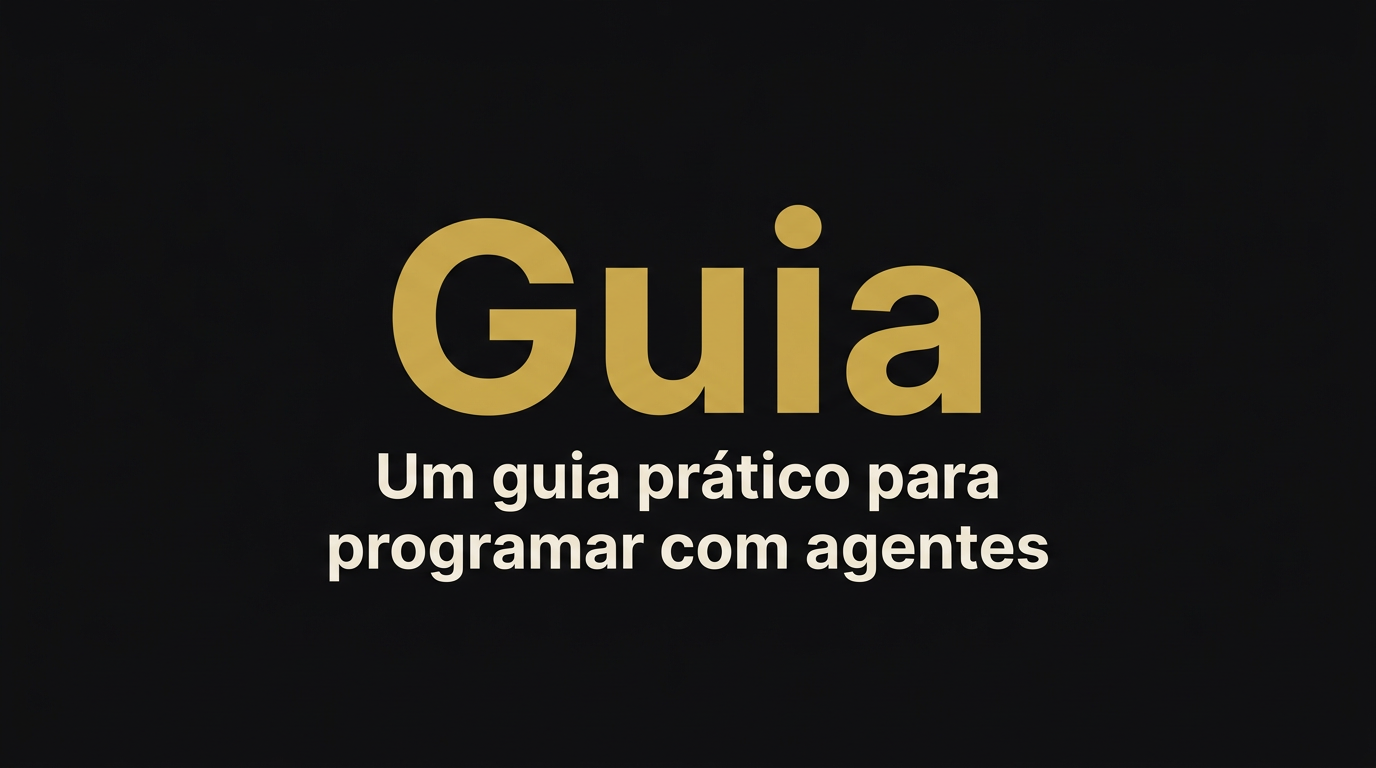
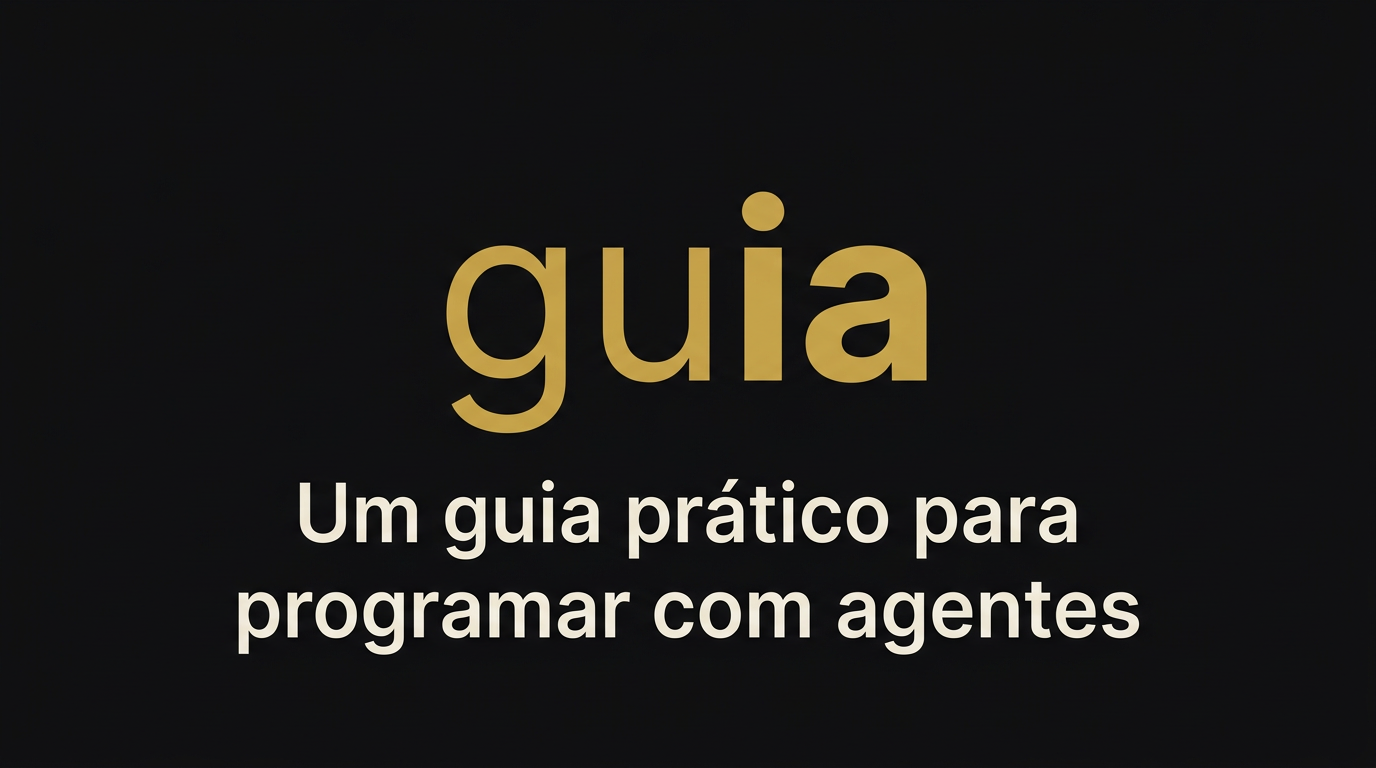
feat: pos release 0.7

Changed region(s): [[0.1562, 0.5938, 0.8438, 0.875], [0.2812, 0.25, 0.7188, 0.5625]]

diff --git a/index.html b/index.html
@@ -5,23 +5,23 @@
     <meta name="viewport" content="width=device-width, initial-scale=1.0" />
     <meta
       name="description"
-      content="Um guia pratico para desenvolvimento com agentes de codigo. Aprenda a usar Cursor, Claude Code, Codex e outras ferramentas para construir software com IA."
+      content="Um guia prático para desenvolvimento com agentes de código. Aprenda a usar Cursor, Claude Code, Codex e outras ferramentas para construir software com IA."
     />
-    <meta property="og:title" content="Guia prático para programar com agentes" />
+    <meta property="og:title" content="guia prático para programar com agentes" />
     <meta
       property="og:description"
       content="Um guia prático para programar com agentes. Aprenda a usar Cursor, Claude Code, Codex e outras ferramentas com IA."
     />
     <meta property="og:type" content="website" />
     <meta property="og:url" content="https://baltazarparra.github.io/guia/" />
-    <meta property="og:image" content="https://baltazarparra.github.io/guia/og-image.png?v=2" />
+    <meta property="og:image" content="https://baltazarparra.github.io/guia/og-image.png?v=3" />
     <meta name="twitter:card" content="summary_large_image" />
-    <meta name="twitter:title" content="Guia prático para programar com agentes" />
+    <meta name="twitter:title" content="guia prático para programar com agentes" />
     <meta
       name="twitter:description"
       content="Um guia prático para programar com agentes. Aprenda a usar Cursor, Claude Code, Codex e outras ferramentas com IA."
     />
-    <meta name="twitter:image" content="https://baltazarparra.github.io/guia/og-image.png?v=2" />
+    <meta name="twitter:image" content="https://baltazarparra.github.io/guia/og-image.png?v=3" />
     <link rel="canonical" href="https://baltazarparra.github.io/guia/" />
     <link rel="help" type="text/plain" href="/guia/llms.txt" />
     <link rel="icon" type="image/svg+xml" href="/guia/favicon.svg" />
@@ -31,7 +31,7 @@
       href="https://fonts.googleapis.com/css2?family=Inter:wght@400;500;600;700&display=swap"
       rel="stylesheet"
     />
-    <title>Um guia pratico para desenvolvimento com agentes de codigo</title>
+    <title>Um guia prático para desenvolvimento com agentes de código</title>
   </head>
   <body style="background-color: #0c0c0e">
     <div id="root"></div>

diff --git a/src/components/ui/BrandText.jsx b/src/components/ui/BrandText.jsx
@@ -1,0 +1,21 @@
+/**
+ * Renders "guia" with "ia" in bold for brand consistency.
+ * Accepts strings like "Guia prático" or "guia" and outputs gu + <strong>ia</strong> + rest.
+ *
+ * @param {{ children: string, className?: string }} props
+ */
+export default function BrandText({ children, className = '' }) {
+  const text = typeof children === 'string' ? children : ''
+  const match = text.match(/^([Gg]u)(ia)(.*)$/)
+  if (match) {
+    const [, prefix, suffix, restText] = match
+    return (
+      <span className={className}>
+        {prefix}
+        <strong>{suffix}</strong>
+        {restText}
+      </span>
+    )
+  }
+  return <span className={className}>{text}</span>
+}

diff --git a/src/components/sections/HeroSection.jsx b/src/components/sections/HeroSection.jsx
@@ -1,6 +1,7 @@
 import { useRef, useState, useCallback } from 'react'
 import { useLanguage } from '../../hooks/useLanguage'
 import useSectionReveal from '../../hooks/useSectionReveal'
+import BrandText from '../ui/BrandText'
 
 export default function HeroSection() {
   const { t } = useLanguage()
@@ -22,7 +23,7 @@ export default function HeroSection() {
     >
       <div ref={revealRef} className="mx-auto max-w-3xl">
         <h1 className="text-accent text-4xl font-bold tracking-tight md:text-6xl">
-          {t.hero.title}
+          <BrandText>{t.hero.title}</BrandText>
         </h1>
         <p className="text-foreground/70 mt-4 text-xl md:text-2xl">{t.hero.subtitle}</p>
 

diff --git a/src/components/__tests__/smoke.test.jsx b/src/components/__tests__/smoke.test.jsx
@@ -17,7 +17,8 @@ vi.mock('../../hooks/useSectionReveal', () => ({
 describe('smoke tests', () => {
   it('App renders without crashing', () => {
     render(<App />)
-    expect(screen.getByText('Guia prático')).toBeInTheDocument()
+    const h1 = screen.getByRole('heading', { level: 1 })
+    expect(h1).toHaveTextContent('Guia prático')
   })
 
   it('renders all 9 section IDs', () => {

diff --git a/src/content/en.js b/src/content/en.js
@@ -9,7 +9,7 @@ export default {
   },
 
   hero: {
-    title: 'Practical guide',
+    title: 'guia — practical guide',
     subtitle: 'to coding with agents.',
     tabLabel: 'prompt to get started',
     prompt:

diff --git a/README.md b/README.md
@@ -1,8 +1,8 @@
-# Guia
+# gu**ia**
 
 A restrained, bilingual landing page that explains how to start building software with AI coding agents.
 
-Guia is not a tool or a framework. It is a single long-form scroll experience that walks the reader through a structured agentic development workflow — from choosing a stack to writing a PRD to executing through pre-implementation plans.
+gu**ia** is not a tool or a framework. It is a single long-form scroll experience that walks the reader through a structured agentic development workflow — from choosing a stack to writing a PRD to executing through pre-implementation plans.
 
 Built with Vite, React, Tailwind CSS, React Three Fiber, and GSAP. Deployed as a static site on GitHub Pages.
 
@@ -12,7 +12,7 @@ Built with Vite, React, Tailwind CSS, React Three Fiber, and GSAP. Deployed as a
 
 Most people starting with AI coding agents jump straight into prompting and hope for the best. The result is often fast chaos instead of fast delivery.
 
-Guia presents a simple, practical workflow that helps beginners build with more structure. It covers stack decisions, planning documents, execution models, and reusable templates — all explained through a calm, editorial scroll experience with a 3D diamond as the central visual metaphor.
+gu**ia** presents a simple, practical workflow that helps beginners build with more structure. It covers stack decisions, planning documents, execution models, and reusable templates — all explained through a calm, editorial scroll experience with a 3D diamond as the central visual metaphor.
 
 ## Stack
 
@@ -31,7 +31,7 @@ Guia presents a simple, practical workflow that helps beginners build with more 
 | Use case                    | What to read                                                                                                                                                                         |
 | --------------------------- | ------------------------------------------------------------------------------------------------------------------------------------------------------------------------------------ |
 | **Bootstrap a new project** | [llms.txt](https://baltazarparra.github.io/guia/llms.txt) — paste this URL into your agent. It will interview the user and create PLAN.md, IMPLEMENTATION-ROADMAP.md, and AGENTS.md. |
-| **Contribute to Guia**      | [AGENTS.md](AGENTS.md) — project rules, constraints, and validation workflow.                                                                                                        |
+| **Contribute to gu**ia\*\*  | [AGENTS.md](AGENTS.md) — project rules, constraints, and validation workflow.                                                                                                        |
 
 ## Local development
 

diff --git a/PLAN.md b/PLAN.md
@@ -1,8 +1,8 @@
-# PLAN.md — Guia Landing Page
+# PLAN.md — gu**ia** Landing Page
 
 ## 1. Project Overview
 
-**Project name:** Guia  
+**Project name:** gu**ia**  
 **Type:** Experimental single-page landing page  
 **Primary goal:** Educate people who never used code agents and explain a simple agentic development flow  
 **Secondary goal:** Offer reusable templates and a clean mental model for getting started  
@@ -10,7 +10,7 @@
 **Languages:** PT-BR and EN  
 **Deployment:** GitHub Pages
 
-Guia should feel like a creative editorial product site. The experience should be elegant, minimal, calm, and highly intentional. The visual inspiration is a mix of Linear-like product clarity, Untold-like storytelling, and Apple-like restraint.
+gu**ia** should feel like a creative editorial product site. The experience should be elegant, minimal, calm, and highly intentional. The visual inspiration is a mix of Linear-like product clarity, Untold-like storytelling, and Apple-like restraint.
 
 ## 2. Product Intent
 
@@ -262,7 +262,7 @@ Goal: establish concept and visual identity.
 
 Content direction:
 
-- name: Guia
+- name: gu**ia**
 - subtitle: a practical guide to agentic development
 - short body: code agents are changing software, but speed without structure is chaos
 - visual entry of the 3D notebook
@@ -1042,7 +1042,7 @@ All other concerns (visual direction, implementation steps, template specs) are 
 
 ## 32. Final Recommendation
 
-Build Guia as a restrained, bilingual, static, scroll-led creative landing page using Vite, React, Tailwind, React Three Fiber, Drei, and GSAP.
+Build gu**ia** as a restrained, bilingual, static, scroll-led creative landing page using Vite, React, Tailwind, React Three Fiber, Drei, and GSAP.
 
 Keep the first version focused.
 Do not let the 3D system dominate the product message.

diff --git a/AGENTS.md b/AGENTS.md
@@ -2,7 +2,7 @@
 
 ## Project overview
 
-Guia is a static single-page landing page that explains agentic development to beginners. It is a long-form, scroll-driven editorial experience with a 3D diamond as the central visual element. Bilingual: PT-BR and EN. Deployed to GitHub Pages.
+gu**ia** is a static single-page landing page that explains agentic development to beginners. It is a long-form, scroll-driven editorial experience with a 3D diamond as the central visual element. Bilingual: PT-BR and EN. Deployed to GitHub Pages.
 
 Full product spec: `PLAN.md`
 Task-level execution guide: `IMPLEMENTATION-ROADMAP.md`
